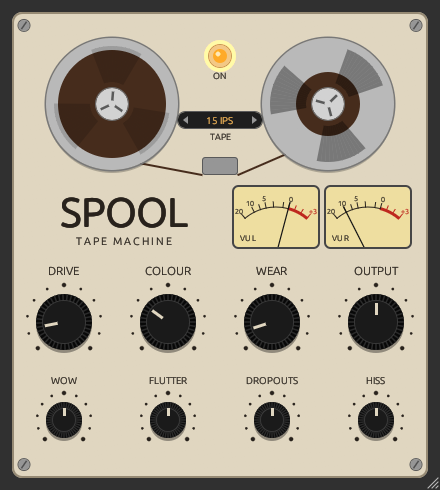
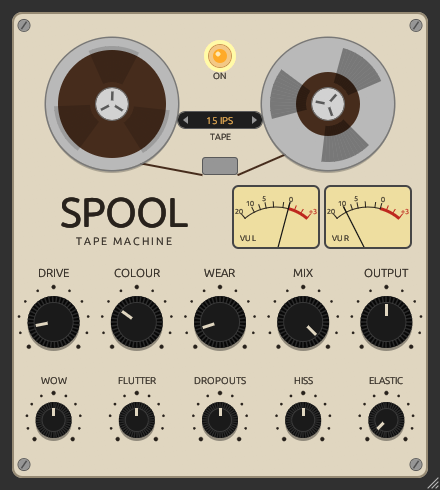
Add Mix and Elastic knobs
Mix blends the time-aligned dry signal with the tape. Elastic skews the wow into a slow sag
and quick snap and runs it through a resonant tape spring so it bounces.

diff --git a/src/lib.rs b/src/lib.rs
@@ -25,6 +25,12 @@ const BASE_DELAY: f32 = 0.025;
 const WOW_DEPTH: f32 = 0.006;
 const WOW_RATE: f32 = 0.5;
 const DRIFT_FC: f32 = 0.3;
+// Elastic: the wow sags for up to ELASTIC_SKEW of its cycle (0.5 is a sine) and snaps back
+// through a resonant "tape spring", scaled down so its overshoot stays within the wow depth
+const ELASTIC_SKEW: f32 = 0.85;
+const SPRING_FC: f32 = 4.0;
+const SPRING_Q: f32 = 2.0;
+const SPRING_IN: f32 = 0.75;
 const FLUTTER_DEPTH: f32 = 0.00015;
 const FLUTTER_RATE: f32 = 7.0;
 /// Dropouts per second at full wear
@@ -68,6 +74,7 @@ struct Preset {
     flutter: f32,
     dropouts: f32,
     hiss: f32,
+    elastic: f32,
 }
 
 /// Cleanest to dirtiest. The first must equal the param defaults (`first_preset_is_the_default`),
@@ -75,19 +82,19 @@ struct Preset {
 #[rustfmt::skip]
 const PRESETS: &[Preset] = &[
     // Studio reel at 15 ips: a little glue and warmth, nearly no transport noise
-    Preset { name: "15 IPS",  drive_db:  3.0, colour: 0.30, wear: 0.10, output_db: 0.0, wow: 1.0, flutter: 1.0, dropouts: 1.0, hiss: 1.0 },
+    Preset { name: "15 IPS",  drive_db:  3.0, colour: 0.30, wear: 0.10, output_db: 0.0, wow: 1.0, flutter: 1.0, dropouts: 1.0, hiss: 1.0, elastic: 0.0 },
     // 30 ips: wider bandwidth, less bump, quieter and steadier
-    Preset { name: "30 IPS",  drive_db:  2.0, colour: 0.15, wear: 0.05, output_db: 0.0, wow: 0.5, flutter: 0.5, dropouts: 0.0, hiss: 0.5 },
+    Preset { name: "30 IPS",  drive_db:  2.0, colour: 0.15, wear: 0.05, output_db: 0.0, wow: 0.5, flutter: 0.5, dropouts: 0.0, hiss: 0.5, elastic: 0.0 },
     // Type IV cassette: takes level well, stays bright
-    Preset { name: "Metal",   drive_db:  8.0, colour: 0.25, wear: 0.20, output_db: 2.0, wow: 0.8, flutter: 1.0, dropouts: 0.2, hiss: 0.6 },
+    Preset { name: "Metal",   drive_db:  8.0, colour: 0.25, wear: 0.20, output_db: 2.0, wow: 0.8, flutter: 1.0, dropouts: 0.2, hiss: 0.6, elastic: 0.0 },
     // Type II cassette: bright with low hiss
-    Preset { name: "Chrome",  drive_db:  6.0, colour: 0.40, wear: 0.25, output_db: 1.0, wow: 0.8, flutter: 1.0, dropouts: 0.3, hiss: 0.8 },
+    Preset { name: "Chrome",  drive_db:  6.0, colour: 0.40, wear: 0.25, output_db: 1.0, wow: 0.8, flutter: 1.0, dropouts: 0.3, hiss: 0.8, elastic: 0.0 },
     // Type I cassette: darker, saturates earlier, hissier
-    Preset { name: "Ferric",  drive_db:  9.0, colour: 0.60, wear: 0.35, output_db: 2.5, wow: 1.0, flutter: 1.2, dropouts: 0.5, hiss: 1.3 },
+    Preset { name: "Ferric",  drive_db:  9.0, colour: 0.60, wear: 0.35, output_db: 2.5, wow: 1.0, flutter: 1.2, dropouts: 0.5, hiss: 1.3, elastic: 0.0 },
     // Old, well-played tape: dull, wobbly, the odd dropout
-    Preset { name: "Vintage", drive_db: 10.0, colour: 0.75, wear: 0.60, output_db: 4.0, wow: 1.2, flutter: 1.0, dropouts: 1.0, hiss: 1.0 },
+    Preset { name: "Vintage", drive_db: 10.0, colour: 0.75, wear: 0.60, output_db: 4.0, wow: 1.2, flutter: 1.0, dropouts: 1.0, hiss: 1.0, elastic: 0.0 },
     // Long-play VHS hi-fi gone wrong: murky, warbling, dropping out
-    Preset { name: "VHS",     drive_db: 12.0, colour: 0.90, wear: 0.70, output_db: 5.5, wow: 1.6, flutter: 1.5, dropouts: 1.3, hiss: 1.4 },
+    Preset { name: "VHS",     drive_db: 12.0, colour: 0.90, wear: 0.70, output_db: 5.5, wow: 1.6, flutter: 1.5, dropouts: 1.3, hiss: 1.4, elastic: 0.0 },
 ];
 
 impl Preset {
@@ -99,7 +106,29 @@ impl Preset {
             flutter: self.flutter,
             dropouts: self.dropouts,
             hiss: self.hiss,
+            elastic: self.elastic,
         }
+    }
+}
+
+/// Topology-preserving state variable filter, low-pass output only.
+#[derive(Default, Clone, Copy)]
+struct Svf {
+    ic1: f32,
+    ic2: f32,
+}
+
+impl Svf {
+    /// `g` is `tan(pi * fc / fs)`, `q` the resonance.
+    fn lp(&mut self, x: f32, g: f32, q: f32) -> f32 {
+        let a1 = 1.0 / (1.0 + g * (g + 1.0 / q));
+        let (a2, a3) = (g * a1, g * g * a1);
+        let v3 = x - self.ic2;
+        let v1 = a1 * self.ic1 + a2 * v3;
+        let v2 = self.ic2 + a2 * self.ic1 + a3 * v3;
+        self.ic1 = 2.0 * v1 - self.ic1;
+        self.ic2 = 2.0 * v2 - self.ic2;
+        v2
     }
 }
 
@@ -243,6 +272,8 @@ struct Wear {
     flutter: f32,
     dropouts: f32,
     hiss: f32,
+    /// 0..1, how much the wow sags, snaps and bounces
+    elastic: f32,
 }
 
 impl Wear {
@@ -255,6 +286,7 @@ impl Wear {
             flutter: 1.0,
             dropouts: 1.0,
             hiss: 1.0,
+            elastic: 0.0,
         }
     }
 }
@@ -264,6 +296,7 @@ struct Transport {
     wow_phase: f32,
     flutter_phase: f32,
     drift: OnePole,
+    spring: Svf,
     dropout_left: usize,
     dropout_target: f32,
     dropout_gain: f32,
@@ -276,6 +309,7 @@ impl Default for Transport {
             wow_phase: 0.0,
             flutter_phase: 0.0,
             drift: OnePole::default(),
+            spring: Svf::default(),
             dropout_left: 0,
             dropout_target: 1.0,
             dropout_gain: 1.0,
@@ -302,7 +336,21 @@ impl Transport {
         let g = prewarp(DRIFT_FC, fs);
         let noise = self.noise();
         let drift = (self.drift.lp(noise, g) * (1.5 / g).sqrt()).clamp(-1.0, 1.0);
-        let wow = 0.7 * self.wow_phase.sin() + 0.3 * drift;
+        // Warp the phase so the cycle rises over `skew` of it and falls over the rest. At 0.5
+        // this is a plain sine; past it the tape sags slowly and snaps back.
+        let skew = 0.5 + (ELASTIC_SKEW - 0.5) * w.elastic;
+        let p = self.wow_phase / TAU;
+        let warped = if p < skew {
+            PI * p / skew
+        } else {
+            PI + PI * (p - skew) / (1.0 - skew)
+        };
+        let wow = 0.7 * -warped.cos() + 0.3 * drift;
+        // The spring always runs so turning Elastic up mid-note doesn't jump
+        let sprung = self
+            .spring
+            .lp(wow * SPRING_IN, prewarp(SPRING_FC, fs), SPRING_Q);
+        let wow = (wow + (sprung - wow) * w.elastic).clamp(-1.0, 1.0);
         let (wow_amount, flutter_amount) = (w.amount * w.wow, w.amount * w.flutter);
         let delay = base
             + wow_amount * wow_amount * WOW_DEPTH * fs * wow
@@ -457,6 +505,10 @@ struct SpoolParams {
     dropouts: FloatParam,
     #[id = "hiss"]
     hiss: FloatParam,
+    #[id = "elastic"]
+    elastic: FloatParam,
+    #[id = "mix"]
+    mix: FloatParam,
     #[id = "output"]
     output: FloatParam,
     #[id = "bypass"]
@@ -501,6 +553,8 @@ impl Default for SpoolParams {
             flutter: trim("Flutter"),
             dropouts: trim("Dropouts"),
             hiss: trim("Hiss"),
+            elastic: knob("Elastic", 0.0),
+            mix: knob("Mix", 1.0),
             output: FloatParam::new(
                 "Output",
                 util::db_to_gain(0.0),
@@ -617,6 +671,7 @@ impl Plugin for Spool {
                 flutter: self.params.flutter.smoothed.next(),
                 dropouts: self.params.dropouts.smoothed.next(),
                 hiss: self.params.hiss.smoothed.next(),
+                elastic: self.params.elastic.smoothed.next(),
             };
             let coeffs = Coeffs::new(
                 self.params.drive.smoothed.next(),
@@ -625,6 +680,7 @@ impl Plugin for Spool {
                 fs,
             );
             let output = self.params.output.smoothed.next();
+            let mix = self.params.mix.smoothed.next();
             let (delay, dropout) = self.transport.next(&wear, base, fs);
             let target = if self.params.bypass.value() { 0.0 } else { 1.0 };
             self.wet += (target - self.wet).clamp(-fade_step, fade_step);
@@ -640,7 +696,7 @@ impl Plugin for Spool {
                 let tape = channel.delay.read(delay);
                 let noise = self.transport.noise();
                 let wet = channel.process(tape, &coeffs, noise) * dropout * output;
-                *sample = dry + (wet - dry) * self.wet;
+                *sample = dry + (wet - dry) * mix * self.wet;
                 *vu += (*sample * *sample - *vu) * vu_k;
             }
         }
@@ -754,6 +810,44 @@ mod tests {
         assert!(peak(&out) < 1e-6);
     }
 
+    /// Wow alone (no flutter or drift is unavoidable) as a fraction of its depth, over 20 s.
+    fn wow_curve(elastic: f32) -> Vec<f32> {
+        let fs = 48000.0;
+        let wear = Wear {
+            flutter: 0.0,
+            elastic,
+            ..Wear::all(1.0)
+        };
+        let mut tr = Transport::default();
+        (0..20 * fs as usize)
+            .map(|_| (tr.next(&wear, 0.0, fs).0) / (WOW_DEPTH * fs))
+            .collect()
+    }
+
+    #[test]
+    fn elastic_snaps_back_faster_than_it_sags() {
+        // Steepest fall vs steepest rise of the delay: 1 for a sine. The spring rounds the snap and
+        // its bounce adds steep rises, so expect well under the 5.7 of the bare shape
+        let ratio = |elastic| {
+            let w = wow_curve(elastic);
+            let slopes = w.windows(2).map(|p| p[1] - p[0]);
+            let (rise, fall) = slopes.fold((0f32, 0f32), |(r, f), d| (r.max(d), f.max(-d)));
+            fall / rise
+        };
+        let (plain, elastic) = (ratio(0.0), ratio(1.0));
+        assert!(
+            plain < 1.2 && elastic > 1.5,
+            "plain {plain}, elastic {elastic}"
+        );
+    }
+
+    #[test]
+    fn spring_rarely_hits_the_wow_limit() {
+        let w = wow_curve(1.0);
+        let pinned = w.iter().filter(|x| x.abs() > 0.999).count() as f32 / w.len() as f32;
+        assert!(pinned < 0.01, "{:.1}% of samples pinned", 100.0 * pinned);
+    }
+
     #[test]
     fn hiss_trim_silences_worn_tape() {
         let quiet = Wear {
@@ -840,6 +934,7 @@ mod tests {
             flutter: 2.0,
             dropouts: 2.0,
             hiss: 2.0,
+            elastic: 1.0,
         });
         // Never closer than 1 sample or past the buffer's 2 * base
         assert!(hi - lo > 0.016 * fs, "swing {lo}..{hi}");
@@ -861,6 +956,7 @@ mod tests {
             (p.flutter, &d.flutter),
             (p.dropouts, &d.dropouts),
             (p.hiss, &d.hiss),
+            (p.elastic, &d.elastic),
         ] {
             assert_eq!(preset, param.default_plain_value(), "{}", param.name());
         }

diff --git a/src/editor.rs b/src/editor.rs
@@ -169,19 +169,32 @@ fn deck(ui: &Ui, setter: &ParamSetter, params: &SpoolParams, meters: &Meters) {
     // Main controls, then the trims for each part of Wear underneath
     let rows = [
         (
-            [&params.drive, &params.colour, &params.wear, &params.output],
+            [
+                &params.drive,
+                &params.colour,
+                &params.wear,
+                &params.mix,
+                &params.output,
+            ],
             310.0,
-            28.0,
+            26.0,
         ),
         (
-            [&params.wow, &params.flutter, &params.dropouts, &params.hiss],
+            [
+                &params.wow,
+                &params.flutter,
+                &params.dropouts,
+                &params.hiss,
+                &params.elastic,
+            ],
             408.0,
             18.0,
         ),
     ];
     for (row, y, radius) in rows {
+        let n = row.len() as f32;
         for (i, param) in row.into_iter().enumerate() {
-            let x = body.left() + body.width() * (i as f32 + 0.5) / 4.0;
+            let x = body.left() + body.width() * (i as f32 + 0.5) / n;
             knob(ui, setter, param, Pos2::new(x, body.top() + y), radius);
         }
     }
@@ -423,7 +436,7 @@ fn knob(ui: &Ui, setter: &ParamSetter, param: &FloatParam, center: Pos2, radius:
 }
 
 /// The preset's values for each float param, in plain units.
-fn preset_values<'a>(params: &'a SpoolParams, p: &Preset) -> [(&'a FloatParam, f32); 8] {
+fn preset_values<'a>(params: &'a SpoolParams, p: &Preset) -> [(&'a FloatParam, f32); 9] {
     [
         (&params.drive, p.drive_db),
         (&params.colour, p.colour),
@@ -433,6 +446,7 @@ fn preset_values<'a>(params: &'a SpoolParams, p: &Preset) -> [(&'a FloatParam, f
         (&params.flutter, p.flutter),
         (&params.dropouts, p.dropouts),
         (&params.hiss, p.hiss),
+        (&params.elastic, p.elastic),
     ]
 }
 

diff --git a/CLAUDE.md b/CLAUDE.md
@@ -30,12 +30,17 @@ cargo clippy --release --lib
   because `reset()` can run on the audio thread.
 - `Wear` bundles the Wear amount (0..1) with the Wow/Flutter/Dropouts/Hiss trims (0..2, default 1). Each part runs
   its curve on `amount * trim`, so all-1 trims sound exactly like 0.1.0's single knob; `Wear::all(x)` is that case.
+- Elastic (in `Wear`, run by `Transport::next`) warps the wow phase so it rises over `skew` of the cycle and falls over
+  the rest, then blends in the same curve through a resonant `Svf` "tape spring". The spring always runs so Elastic
+  can move without jumps; `SPRING_IN` keeps its overshoot inside the wow depth (`spring_rarely_hits_the_wow_limit`).
+- Mix blends dry (time-aligned at the base delay) with tape, multiplied with the bypass crossfade. It isn't part of
+  presets, like bypass.
 - `Coeffs::new(drive_db, colour, &wear, fs)` maps knob values to coefficients; it's shared by `process()` and
   the tests, so change the mapping there only.
 - Wear is mostly squared (wow depth, hiss) or cubed (dropout rate) so low settings stay subtle for mastering.
 - GUI lives in `src/editor.rs`: a hand-painted reel-to-reel faceplate. `knob()`, `screw()` and window scaling
   come from Rodent (see `../rodent/CLAUDE.md`). The pilot lamp is the bypass button.
-  `knob()` takes a radius: 28 for the main row, 18 for the Wear trims row.
+  `knob()` takes a radius: 26 for the main row, 18 for the Wear trims row.
 - `PRESETS` in `lib.rs` are tape types expressed in the knobs (cleanest first). The first must equal the param
   defaults (`first_preset_is_the_default`); `output_db` is level-matched to it by `presets_are_level_matched`
   (`--nocapture` prints every offset), so re-run it after edits. The selector's matching and applying both go

diff --git a/README.md b/README.md
@@ -13,8 +13,10 @@ your master, or push it for all-out lofi wonkiness.
 | Drive   | 0–24 dB | Tape saturation. Highs are pre-emphasised so they saturate first. Level-compensated: quiet parts stay put, peaks get squashed |
 | Colour  | 0–100% | Head bump (up to +4 dB at 90 Hz) and top-end roll-off (20 kHz → 5 kHz) |
 | Wear    | 0–100% | Wow and flutter, hiss, dropouts, and a further loss of highs. Low settings are near-inaudible; the top end gets wonky |
+| Mix     | 0–100% | Dry/tape blend. The dry signal is time-aligned; with Wow up a blend flanges/choruses |
 | Output  | −12 to +12 dB | Make-up gain |
 | Wow, Flutter, Dropouts, Hiss | 0–200% | Trims for each part of Wear (default 100%). A part behaves as if Wear were Wear × trim: turn one down to leave that part out, or up for more of it at low Wear. 200% goes past Wear's maximum (up to 4x the wow) |
+| Elastic | 0–100% | Rubbery wow: the tape sags slowly, snaps back and bounces before settling |
 | Lamp    | Bypass (lit when the tape is running) |
 | Tape    | ‹ › steps through 7 level-matched presets: 15 IPS, 30 IPS, Metal, Chrome, Ferric, Vintage, VHS. Shows CUSTOM once you tweak |
 

diff --git a/CHANGELOG.md b/CHANGELOG.md
@@ -6,6 +6,12 @@ All notable changes to Spool are documented here. The format follows
 
 ## [Unreleased]
 
+### Added
+- Mix knob (default 100%) to blend the tape with the dry signal, which stays time-aligned. With
+  Wow up, blending gives a tape-flange/chorus. Presets leave Mix alone.
+- Elastic knob (default 0%) for rubbery wow: the tape sags slowly, snaps back, and bounces on a
+  springy tape path before settling. Presets set it to 0%, so they sound as before.
+
 ## [0.4.0] - 2026-10-26
 
 ### Added
